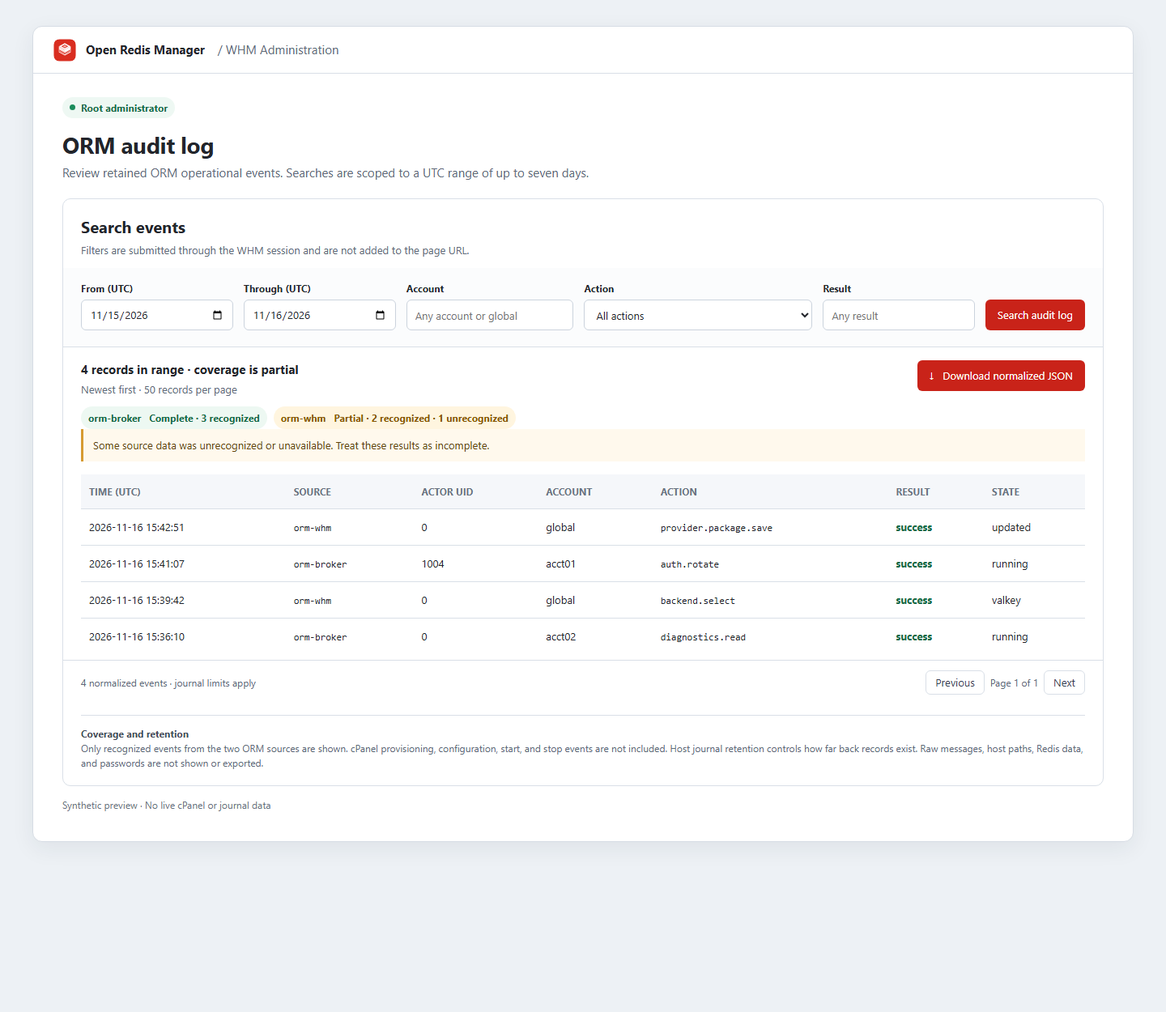
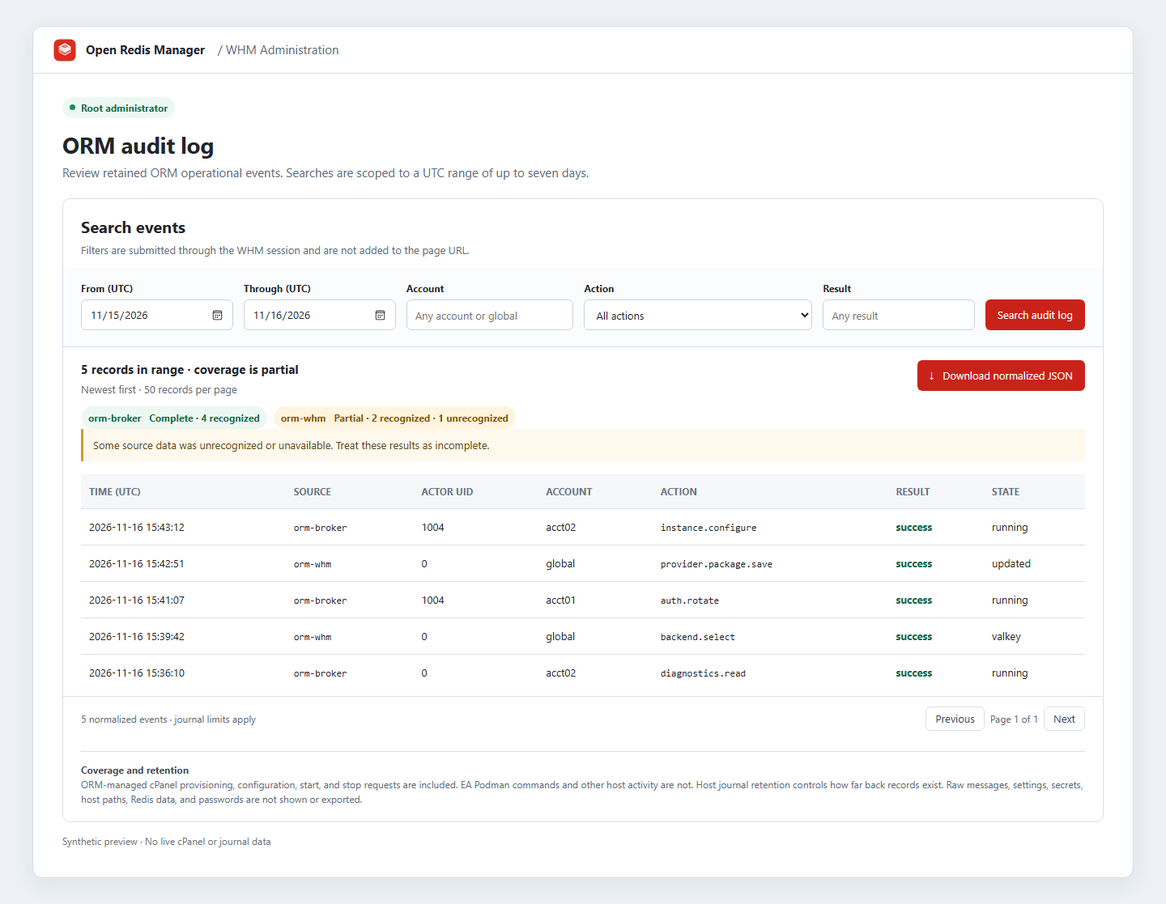
feat(whm): audit cPanel account operations (#206)

diff --git a/screenshots/previews/whm-audit-log.html b/screenshots/previews/whm-audit-log.html
@@ -21,17 +21,18 @@
         <div><label>From (UTC)</label><input type="date" value="2026-11-15"></div>
         <div><label>Through (UTC)</label><input type="date" value="2026-11-16"></div>
         <div><label>Account</label><input value="" placeholder="Any account or global"></div>
-        <div><label>Action</label><select><option>All actions</option><option>diagnostics.read</option></select></div>
+        <div><label>Action</label><select><option>All actions</option><option>instance.provision</option><option>instance.configure</option><option>instance.start</option><option>instance.stop</option><option>diagnostics.read</option></select></div>
         <div><label>Result</label><input value="" placeholder="Any result"></div>
         <button type="button">Search audit log</button>
       </form>
-      <div class="status"><div><div class="count">4 records in range · coverage is partial</div><div class="hint">Newest first · 50 records per page</div></div><button type="button">↓ &nbsp; Download normalized JSON</button></div>
-      <div class="chips"><span class="chip" style="margin-left:22px"><code>orm-broker</code> &nbsp; Complete · 3 recognized</span><span class="chip partial"><code>orm-whm</code> &nbsp; Partial · 2 recognized · 1 unrecognized</span></div>
+      <div class="status"><div><div class="count">5 records in range · coverage is partial</div><div class="hint">Newest first · 50 records per page</div></div><button type="button">↓ &nbsp; Download normalized JSON</button></div>
+      <div class="chips"><span class="chip" style="margin-left:22px"><code>orm-broker</code> &nbsp; Complete · 4 recognized</span><span class="chip partial"><code>orm-whm</code> &nbsp; Partial · 2 recognized · 1 unrecognized</span></div>
       <div class="notice">Some source data was unrecognized or unavailable. Treat these results as incomplete.</div>
       <div class="tablewrap">
         <table>
           <thead><tr><th>TIME (UTC)</th><th>SOURCE</th><th>ACTOR UID</th><th>ACCOUNT</th><th>ACTION</th><th>RESULT</th><th>STATE</th></tr></thead>
           <tbody>
+            <tr><td>2026-11-16 15:43:12</td><td><code>orm-broker</code></td><td>1004</td><td>acct02</td><td><code>instance.configure</code></td><td class="result">success</td><td>running</td></tr>
             <tr><td>2026-11-16 15:42:51</td><td><code>orm-whm</code></td><td>0</td><td>global</td><td><code>provider.package.save</code></td><td class="result">success</td><td>updated</td></tr>
             <tr><td>2026-11-16 15:41:07</td><td><code>orm-broker</code></td><td>1004</td><td>acct01</td><td><code>auth.rotate</code></td><td class="result">success</td><td>running</td></tr>
             <tr><td>2026-11-16 15:39:42</td><td><code>orm-whm</code></td><td>0</td><td>global</td><td><code>backend.select</code></td><td class="result">success</td><td>valkey</td></tr>
@@ -39,8 +40,8 @@
           </tbody>
         </table>
       </div>
-      <div class="foot"><span>4 normalized events · journal limits apply</span><span class="pager"><button type="button">Previous</button><span>Page 1 of 1</span><button type="button">Next</button></span></div>
-      <div class="coverage"><strong>Coverage and retention</strong><br>Only recognized events from the two ORM sources are shown. cPanel provisioning, configuration, start, and stop events are not included. Host journal retention controls how far back records exist. Raw messages, host paths, Redis data, and passwords are not shown or exported.</div>
+      <div class="foot"><span>5 normalized events · journal limits apply</span><span class="pager"><button type="button">Previous</button><span>Page 1 of 1</span><button type="button">Next</button></span></div>
+      <div class="coverage"><strong>Coverage and retention</strong><br>ORM-managed cPanel provisioning, configuration, start, and stop requests are included. EA Podman commands and other host activity are not. Host journal retention controls how far back records exist. Raw messages, settings, secrets, host paths, Redis data, and passwords are not shown or exported.</div>
     </section>
     <div class="caption">Synthetic preview · No live cPanel or journal data</div>
   </main>

diff --git a/tests/whm-audit-log.php b/tests/whm-audit-log.php
@@ -32,6 +32,10 @@ $brokerLines = [
     $journal('orm-broker', 'provider_policy actor_uid=43210 account=acct01 action=policy.violation result=warn state=client_limit_exceeded', $now - 17),
     $journal('orm-broker', 'provider_policy actor_uid=43210 account=acct01 action=policy.violation result=warn state=database_limit_exceeded', $now - 16),
     $journal('orm-broker', 'fleet_operation actor_uid=0 account=acct07 action=recovery.config_rebuild result=success state=stopped', $now - 3),
+    $journal('orm-broker', 'account_operation actor_uid=1000 account=acct01 action=instance.provision result=success state=running', $now - 53),
+    $journal('orm-broker', 'account_operation actor_uid=1000 account=acct01 action=instance.configure result=failure state=running', $now - 52),
+    $journal('orm-broker', 'account_operation actor_uid=1000 account=acct01 action=instance.start result=success state=starting', $now - 51),
+    $journal('orm-broker', 'account_operation actor_uid=1000 account=acct01 action=instance.stop result=success state=stopped', $now - 50),
     $journal('orm-broker', 'ORM raw message password=do-not-export', $now - 10),
     json_encode(['SYSLOG_IDENTIFIER' => 'other-service', 'MESSAGE' => 'fleet_operation actor_uid=0 account=acct01 action=start result=success state=running', '__REALTIME_TIMESTAMP' => (string) ($now * 1_000_000)], JSON_THROW_ON_ERROR),
 ];
@@ -46,7 +50,7 @@ $reader = new WhmAuditLog(static fn (string $identifier): array => [
     'status' => 'ok', 'lines' => $identifier === 'orm-broker' ? $brokerLines : $whmLines,
 ]);
 $result = $reader->read($now - 3600, $now, []);
-$assert($result['success'] && $result['record_count'] === 12, 'Parse known records and omit unknown, malformed-source, and unrelated journal rows.');
+$assert($result['success'] && $result['record_count'] === 16, 'Parse known records and omit unknown, malformed-source, and unrelated journal rows.');
 $assert($result['records'][0]['action'] === 'provider.events.configure' && $result['records'][0]['account'] === 'global'
     && $result['records'][0]['state'] === 'enabled,key_rotated', 'Recognize fixed metadata-only provider event configuration audits.');
 $assert($result['records'][11]['action'] === 'security.thresholds.update' && $result['records'][11]['result'] === 'success',
@@ -58,9 +62,18 @@ $assert($result['records'][5]['action'] === 'policy.violation' && $result['recor
 $assert($result['records'][8]['action'] === 'auth.enable', 'Recognize fixed metadata-only AUTH enable events.');
 $assert($result['records'][9]['action'] === 'diagnostics.info_memory' && $result['records'][9]['actor'] === '0'
     && $result['records'][9]['account'] === 'acct01', 'Expose the exact selected diagnostics command class in audit history.');
+$assert($result['records'][12]['action'] === 'instance.stop' && $result['records'][12]['actor'] === '1000'
+    && $result['records'][12]['account'] === 'acct01' && $result['records'][12]['state'] === 'stopped'
+    && $result['records'][13]['action'] === 'instance.start'
+    && $result['records'][14]['action'] === 'instance.configure' && $result['records'][14]['result'] === 'failure'
+    && $result['records'][15]['action'] === 'instance.provision',
+    'Normalize metadata-only cPanel lifecycle and configuration events from the authenticated account UID.');
 $assert($result['sources'][0]['status'] === 'partial' && $result['sources'][0]['unrecognized_rows'] === 3, 'Mark sources partial when rows cannot be safely recognized.');
 $filtered = $reader->read($now - 3600, $now, ['account' => 'acct01', 'action' => 'auth.rotate', 'result' => 'success']);
 $assert($filtered['record_count'] === 1 && $filtered['records'][0]['actor'] === '1000', 'Filter normalized records by account, action, and result.');
+$accountOperations = $reader->read($now - 3600, $now, ['account' => 'acct01', 'action' => 'instance.configure', 'result' => 'failure']);
+$assert($accountOperations['record_count'] === 1 && $accountOperations['records'][0]['state'] === 'running',
+    'Filter account lifecycle audit events by fixed action and normalized result.');
 $assert(WhmAuditLog::normalizeFilters(['account' => '../root']) === null
     && WhmAuditLog::normalizeFilters(['action' => 'redis-cli']) === null
     && WhmAuditLog::normalizeFilters(['arbitrary' => 'value']) === null, 'Reject unsafe and unknown filters.');

diff --git a/packaging/whm/cgi/addon_open_redis_manager.php b/packaging/whm/cgi/addon_open_redis_manager.php
@@ -1516,7 +1516,7 @@ WHM::header('Open Redis Manager', 0, 0);
         <label for="orm-audit-action">Action</label>
         <select id="orm-audit-action" name="audit_action">
           <option value="">All actions</option>
-          <?php foreach (['start','stop','restart','backup.create','backup.restore','migration.to-valkey','diagnostics.read','diagnostics.ping','diagnostics.info_server','diagnostics.info_memory','diagnostics.info_clients','diagnostics.info_stats','diagnostics.dbsize','recovery.scan','recovery.start','recovery.config_rebuild','auth.rotate','auth.disable','provider.default','provider.package.save','provider.package.remove','provider.reseller.save','provider.reseller.remove','provider.branding.save','backend.select','policy.violation','security.report','security.thresholds.update'] as $action): ?>
+          <?php foreach (['start','stop','restart','instance.provision','instance.configure','instance.start','instance.stop','backup.create','backup.restore','migration.to-valkey','diagnostics.read','diagnostics.ping','diagnostics.info_server','diagnostics.info_memory','diagnostics.info_clients','diagnostics.info_stats','diagnostics.dbsize','recovery.scan','recovery.start','recovery.config_rebuild','auth.rotate','auth.disable','provider.default','provider.package.save','provider.package.remove','provider.reseller.save','provider.reseller.remove','provider.branding.save','backend.select','policy.violation','security.report','security.thresholds.update'] as $action): ?>
             <option value="<?= htmlspecialchars($action, ENT_QUOTES | ENT_SUBSTITUTE, 'UTF-8') ?>"<?= $auditForm['action'] === $action ? ' selected' : '' ?>><?= htmlspecialchars($action, ENT_QUOTES | ENT_SUBSTITUTE, 'UTF-8') ?></option>
           <?php endforeach; ?>
         </select>
@@ -1576,7 +1576,7 @@ WHM::header('Open Redis Manager', 0, 0);
           <?php endif; ?>
         <?php endif; ?>
         <h3>Coverage and retention</h3>
-        <p>Only recognized events retained by <code>orm-broker</code> and <code>orm-whm</code> are shown. cPanel provisioning, configuration, start, and stop requests are not included. Host journal retention and forwarding determine how far back records exist. Raw messages, command output, Redis keys/values, passwords, host paths, and other journal identifiers are never shown or exported.</p>
+        <p>Only recognized events retained by <code>orm-broker</code> and <code>orm-whm</code> are shown. ORM-managed cPanel provisioning, configuration, start, and stop requests are included from the version that introduced account-operation auditing; cPanel EA Podman commands and other host activity are not. Host journal retention and forwarding determine how far back records exist. Raw messages, command output, Redis keys/values, passwords, host paths, and other journal identifiers are never shown or exported.</p>
       <?php endif; ?>
     </section>
   <?php endif; ?>

diff --git a/src/Orm/Security/WhmAuditLog.php b/src/Orm/Security/WhmAuditLog.php
@@ -15,12 +15,13 @@ final class WhmAuditLog
     private const LIMITATIONS = [
         'Only retained records from the two named ORM journald identifiers are read.',
         'Only recognized fixed-format events are returned; unrecognized rows are counted and omitted.',
-        'The viewer does not include cPanel provisioning, configuration, start, or stop operations.',
+        'The viewer does not include cPanel EA Podman commands or all host activity.',
         'Journal retention, forwarding, and persistence are controlled by the host.',
         'Redis keys, values, passwords, raw log messages, command output, and host paths are not exported.',
     ];
     private const ACTIONS = [
         'start', 'stop', 'restart', 'backup.create', 'backup.restore', 'migration.to-valkey',
+        'instance.provision', 'instance.configure', 'instance.start', 'instance.stop',
         'diagnostics.read', 'diagnostics.ping', 'diagnostics.info_server', 'diagnostics.info_memory',
         'diagnostics.info_clients', 'diagnostics.info_stats', 'diagnostics.dbsize',
         'recovery.scan', 'recovery.start', 'recovery.config_rebuild', 'auth.enable', 'auth.rotate', 'auth.disable',
@@ -359,6 +360,8 @@ final class WhmAuditLog
             $patterns = [
                 '/\Afleet_operation actor_uid=' . $actor . ' account=' . $account . ' action=' . $action . ' result=' . $result . ' state=' . $state . '\z/',
                 '/\Aaccount_auth actor_uid=' . $actor . ' account=' . $account . ' action=(?<action>auth\.(?:enable|rotate|disable)) result=' . $result . ' state=' . $state . '\z/',
+                '/\Aaccount_operation actor_uid=' . $actor . ' account=' . $account
+                    . ' action=(?<action>instance\.(?:provision|configure|start|stop)) result=(?<result>success|failure) state=(?<state>running|stopped|starting|stopping|failed|unavailable|not_configured)\z/',
                 '/\Abackup_restore actor_uid=' . $actor . ' account=' . $account
                     . ' backup=(?:snapshot-[0-9]{10}-[a-f0-9]{8}\.rdb|invalid) safety=(?:snapshot-[0-9]{10}-[a-f0-9]{8}\.rdb|none) result=' . $result . ' state=' . $state . '\z/',
                 '/\Aprovider_policy actor_uid=' . $actor . ' account=' . $account . ' action=(?<action>policy\.violation) result=(?<result>report-only|warn|enforce) state=(?<state>(?:package_disabled|memory_limit_exceeded|client_limit_exceeded|reseller_usage_unavailable|reseller_instance_quota_exceeded|reseller_memory_quota_exceeded)(?:,(?:package_disabled|memory_limit_exceeded|client_limit_exceeded|reseller_usage_unavailable|reseller_instance_quota_exceeded|reseller_memory_quota_exceeded))*)\z/',

diff --git a/tests/fleet-ui.php b/tests/fleet-ui.php
@@ -63,6 +63,10 @@ $assert(str_contains($whm, 'Usage from snapshot') && str_contains($whm, "\$entry
     && str_contains($whm, 'memory_used_bytes') && str_contains($whm, 'connected_clients')
     && str_contains($whm, 'No valid metrics snapshot is available.'),
     'show per-account memory and client usage with explicit snapshot freshness and unknown values');
+$assert(str_contains($whm, "'instance.provision','instance.configure','instance.start','instance.stop'")
+    && str_contains($whm, 'ORM-managed cPanel provisioning, configuration, start, and stop requests are included')
+    && str_contains($whm, 'cPanel EA Podman commands'),
+    'filter normalized cPanel operation events and explain the audit coverage boundary');
 $assert(str_contains($whm, "'config_drift' =>") && str_contains($whm, "'config_rebuild'")
     && str_contains($whm, 'Rebuild config') && str_contains($whm, 'ORM will not start the service')
     && str_contains($whm, 'recovery.config_rebuild'),

diff --git a/docs/guides/whm.md b/docs/guides/whm.md
@@ -19,7 +19,7 @@ EA Podman Redis/Valkey coverage is collected separately by a root-owned timer ev
 - **Security and abuse review:** root WHM can generate a report-only review at most once per minute. It uses fresh fleet memory/client/hit-ratio aggregates, verified per-account eviction and operation counter deltas, an optional backend authentication-failure counter, and the last 24 hours of normalized ORM AUTH management events. Each finding shows its UTC evidence window, sample time where available, and a review recommendation. Root can set separate report-only thresholds for eviction deltas, average operations per second, and authentication-failure deltas. Thresholds default to disabled and only change report severity; automated enforcement is not implemented. Counter evidence shows actual sample intervals of up to 26 hours. Missing fields/baselines, resets, and partial sources stay unknown. EA Podman currently contributes a separate aggregate coverage finding from a fresh scheduled snapshot; no Podman counter-delta thresholds are evaluated. Authentication counters are anonymous aggregates; they do not identify clients or distinguish mistakes from attacks. The report does not remediate services, inspect passwords, or evaluate credential strength/reuse. See the [security report threshold guide](security-report-thresholds.md).
 - **Branding:** preview the account-facing product name, logo, support URL and colors.
 - **Updates:** show the source version and release information; preserve existing instances and data.
-- **Audit:** root WHM can search retained ORM audit events by UTC date range (up to seven days), account, action, and result, and download normalized JSON. Actor UID, account, fixed action/result/state, timestamp, and the ORM source identifier are shown. Source coverage reports unavailable, timed-out, truncated, or unrecognized rows. It does not show cPanel provisioning, configuration, start, or stop events; host journal retention controls how far back records exist.
+- **Audit:** root WHM can search retained ORM audit events by UTC date range (up to seven days), account, action, and result, and download normalized JSON. Actor UID, account, fixed action/result/state, timestamp, and the ORM source identifier are shown. Source coverage reports unavailable, timed-out, truncated, or unrecognized rows. ORM-managed cPanel account provisioning, configuration, start, and stop requests are included from the emitting version onward; EA Podman commands and other host activity are not. Host journal retention controls how far back records exist.
 - **Provider events:** root WHM can configure an optional signed HTTPS event destination, enable or disable delivery, rotate its secret, and inspect bounded queue status. Delivery is disabled by default and the key is never shown again after generation. Receivers must validate HMAC, timestamps, and duplicate IDs. See the [provider event guide](provider-events.md).
 
 ## Authorization
@@ -27,4 +27,4 @@ EA Podman Redis/Valkey coverage is collected separately by a root-owned timer ev
 The fleet view is root-only. The WHM application asks the local broker for its inventory; the broker checks the kernel-derived peer UID and accepts the fleet operation only from UID 0. It lists only ORM metadata backed by a matching cPanel account record and valid local account identity. Names and state are escaped before rendering; paths, configuration, credentials, and Redis data are omitted. Pagination keeps broker replies within the protocol size limit. Snapshot entries contain only validated IDs, timestamps, and sizes. Search, state filtering, and state counts apply to the displayed page.
 
 Fleet controls, diagnostics, recovery, backup batches, and migration operations are root-only and use POST on a WHM `cpsess` route. The broker rejects non-root peers, malformed account names, unknown actions, untrusted account records, and invalid instance manifests before invoking a manager method. Batch creation/restoration is limited to two accounts from the visible page; the broker caps work, applies global and per-account rate limits, isolates failures, and returns strict per-account results. Metrics are read from validated root-owned snapshot files, and service state uses fixed argv systemd requests. Snapshot and migration operations cannot target arbitrary paths; restore requires a retained account-owned snapshot, performs the safety-snapshot and rollback flow, and can interrupt a service or discard newer writes. The [security model](../security-model.md) describes the authorization and isolation boundaries.
-The audit view reads only the fixed `orm-broker` and `orm-whm` identifiers from `authpriv`, and returns recognized event fields rather than raw journal messages. It intentionally cannot establish complete host activity: cPanel instance provisioning, configuration, start, and stop events are not currently recorded in these sources. No matching retained rows may mean that the journal has expired or forwarded the events elsewhere. Exports are private, no-store JSON and include source coverage and limitations.
+The audit view reads only the fixed `orm-broker` and `orm-whm` identifiers from `authpriv`, and returns recognized event fields rather than raw journal messages. Account operation events use the kernel peer UID and resolved account; only fixed action names, success/failure, and normalized service state are recorded. Logging is best-effort. The view intentionally cannot establish complete host activity: EA Podman commands and unrelated system actions are not recorded. No matching retained rows may mean that the journal expired, forwarded the events elsewhere, or predates the version that emits a particular event. Exports are private, no-store JSON and include source coverage and limitations.

diff --git a/docs/features/catalog.md b/docs/features/catalog.md
@@ -40,7 +40,7 @@ This catalog records the public product behavior observed on the reference site 
 | Authentication protection | Rate-limit repeated authentication failures, audit lockouts without logging secrets, and detect weak or reused credentials without exposing values. | The report measures anonymous backend auth-failure counter deltas only when the backend exposes the INFO field; unsupported versions and incomplete windows remain unknown. It does not identify clients, create lockouts, or evaluate credential strength/reuse. Broker operations use Unix-socket peer credentials and fixed request rate limits. Redis AUTH is optional and is not a substitute for account isolation. |
 | Branding | Configure provider product name, logo, support link, four labelled theme colors, brand-inspired palettes, footer visibility and a live cPanel preview. | Root WHM stores validated provider branding in the root-owned v4 policy file. The account-scoped broker exposes only display data to cPanel. The four palette roles are primary action, link, panel background, and text; the project-authored ORM, UnderHost-inspired, Redis-inspired, and Valkey-inspired palettes change colors only. |
 | Updates | Verify release metadata and expose an administrator-approved update path that preserves existing accounts. | Root WHM verifies a manually staged, locally signed release against the installed v3 manifest, displays signature, digest and per-file actions, and requires a fresh conflict-free preview plus explicit confirmation. A fixed worker applies the bound version and artifact asynchronously through the transactional updater and exposes bounded status and recovery states. Releases are not fetched automatically; existing v1/v2 installs need exact-match manifest adoption, and the workflow still needs live cPanel validation. See the [update lifecycle guide](../guides/update-lifecycle.md). |
-| Audit | Record privileged changes and operation results without secrets; support filtering and export. | Root WHM can search retained, recognized `orm-broker` and `orm-whm` authpriv events by UTC range (up to seven days), account, fixed action, and result, then export normalized JSON. Missing, truncated, or unrecognized journal rows are shown as incomplete coverage. cPanel provisioning, configuration, start, and stop events are not included, and host retention controls availability. |
+| Audit | Record privileged changes and operation results without secrets; support filtering and export. | Root WHM can search retained, recognized `orm-broker` and `orm-whm` authpriv events by UTC range (up to seven days), account, fixed action, and result, then export normalized JSON. Missing, truncated, or unrecognized journal rows are shown as incomplete coverage. ORM-managed cPanel provision/configure/start/stop requests use the broker peer UID and a fixed metadata-only schema. Events are best-effort and begin with versions that emit the schema; cPanel EA Podman commands and unrelated host activity remain outside the ORM audit stream. Host retention controls availability. |
 | Backend migration | Snapshot, switch one account, verify health and connectivity, then roll back on failure. Require explicit confirmation and show downtime/data semantics. | Root-only WHM migration is wired for a running ORM-managed Redis 6.2–7.2 instance to Valkey 7.2 or newer. It requires an explicit acknowledgement that application writers have already been stopped or paused, briefly pauses Redis writes, saves and validates an RDB snapshot, switches the backend, checks service health and per-database key/expiry counts, and attempts automatic rollback on failure. It rejects unsupported versions and keeps a safety snapshot. Exact key values are not compared; maintain the application write pause through verification and resume it only after success. Disposable cPanel migration testing remains an open release gate. |
 | Update lifecycle | Show signed release state in WHM, preserve existing account configuration and data, and provide an explicit post-update status and recovery path. | WHM now provides signed release preview, explicit apply confirmation, asynchronous transaction jobs, and bounded status/recovery reporting. The worker refuses unsupported file actions and binds the confirmed version and digest. Releases must be staged and signed out of band; the older identity-v1 bridge remains a separate compatibility path, and live cPanel install/update validation is open. |
 

diff --git a/screenshots/README.md b/screenshots/README.md
@@ -34,7 +34,7 @@ Images below include local previews, prototype captures, and explicitly labeled 
 | [WHM security report](whm-security-report.png) | Report-only resource findings, configurable advisory thresholds, measured counter-rate windows, partial evidence and explicit unknown authentication signals | 1440 × 1660 static sample-data preview; [HTML source](previews/whm-security-report.html) |
 | [WHM package and reseller policy](whm-package-policy.png) | Root-only mode and exposure defaults, package ceilings, reseller usage, and quotas | Static preview; [HTML source](previews/whm-package-policy.html) |
 | [WHM provider branding](whm-provider-branding.png) | Provider identity controls and a synthetic live cPanel preview | Static preview; [HTML source](previews/whm-provider-branding.html) |
-| [WHM audit log](whm-audit-log.png) | Root-only UTC filters, source coverage status, normalized events, and JSON export | Synthetic sample data; [HTML source](previews/whm-audit-log.html) |
+| [WHM audit log](whm-audit-log.png) | Root-only UTC filters, cPanel lifecycle/configuration events, source coverage, normalized records, and JSON export | Synthetic sample data; [HTML source](previews/whm-audit-log.html) |
 | [WHM signed update preview and job status](whm-update-preview.png) | Root-only signed release preview, explicit asynchronous apply confirmation, queued job status and status lookup | Synthetic release and job values; [HTML source](previews/whm-update-preview.html) |
 
 The dashboard and WHM overview/accounts/security images are nonfunctional prototype screens. The cPanel setup image is a static preview rendered from [its HTML fixture](previews/cpanel-presets.html), with synthetic data. The cPanel configuration image is a static preview rendered from [its HTML fixture](previews/cpanel-configuration.html), with synthetic settings. The cPanel monitoring and hourly history images are static previews rendered from [their HTML fixture](previews/cpanel-monitoring.html); the stale-state design is in a [synthetic HTML preview](previews/cpanel-monitoring-stale.html), with image capture pending. The cPanel backup and restore screenshot is rendered from its [synthetic HTML preview](previews/cpanel-backups-restore.html). The connection-details image is a static preview rendered from [its HTML fixture](previews/connection-details.html). The WHM account-action and snapshot design is rendered from its [synthetic HTML preview](previews/whm-fleet.html). These previews are not connected to cPanel or Redis/Valkey.

diff --git a/docs/guides/audit-log.md b/docs/guides/audit-log.md
@@ -12,6 +12,6 @@ The reader invokes the fixed `/usr/bin/journalctl` program with an argument vect
 
 Each source is identified as complete, partial, or unavailable. Timeouts, truncated output, and unrecognized rows are visible. An empty result does not prove that no operation occurred: the host may have expired, forwarded, or disabled persistent journal records.
 
-The current sources cover privileged WHM fleet controls, diagnostics, recovery, backup/restore, migration, AUTH changes, provider policy decisions, provider policy changes, and backend selection. cPanel provisioning, configuration, start, and stop activity is not currently included. The screen is therefore an ORM operations view, not a complete host audit trail. Follow the server's journal retention, access, and forwarding policy for authoritative retention.
+The current sources cover privileged WHM fleet controls, diagnostics, recovery, backup/restore, migration, AUTH changes, provider policy decisions, provider policy changes, backend selection, and ORM-managed cPanel account provisioning, configuration, start, and stop requests. Account-operation events use the broker's kernel-derived peer UID and the resolved account identity. They contain only a fixed action, success/failure, and normalized service state; request settings, preset values, secrets, backup IDs, and raw errors are excluded. Logging is best-effort, and the WHM view does not report whether syslog accepted a particular cPanel event. Events are available only from versions that emit this schema onward. cPanel EA Podman commands and other host activity are outside this ORM event stream. The screen is therefore an ORM operations view, not a complete host audit trail. Follow the server's journal retention, access, and forwarding policy for authoritative retention.
 
 JSON exports include a schema version, UTC range, normalized filters and records, per-source coverage, truncation flags, and limitations. The download response is marked private and no-store. Treat exports as administrative data because account identifiers and actor UIDs are present.

diff --git a/docs/security-model.md b/docs/security-model.md
@@ -44,4 +44,4 @@ Mutations require POST requests on a ten-digit `cpsess`-tokenized route, which c
 
 The broker uses Linux's `SO_PEERCRED` Unix-socket option to read the peer credentials ([`unix(7)`](https://man7.org/linux/man-pages/man7/unix.7.html)). Its systemd unit uses a private runtime directory and filesystem restrictions ([`systemd.exec`](https://www.freedesktop.org/software/systemd/man/latest/systemd.exec.html)).
 
-The root-only audit view accepts POSTed filters on the guarded WHM session route. It queries `/usr/bin/journalctl` through a fixed argument vector for the two ORM authpriv identifiers, with a seven-day range cap, a three-second timeout and a one-megabyte output cap per source. It returns recognized event fields only, and JSON exports cannot carry raw journal messages or extra row fields. Unavailable, truncated, or unrecognized source rows mark the view incomplete. The view does not cover cPanel provisioning, configuration, start, or stop activity, and host journal retention/forwarding determines record availability; it is not a complete host audit trail.
+The root-only audit view accepts POSTed filters on the guarded WHM session route. It queries `/usr/bin/journalctl` through a fixed argument vector for the two ORM authpriv identifiers, with a seven-day range cap, a three-second timeout and a one-megabyte output cap per source. It returns recognized event fields only, and JSON exports cannot carry raw journal messages or extra row fields. Unavailable, truncated, or unrecognized source rows mark the view incomplete. The broker records ORM-managed cPanel provisioning, configuration, start, and stop requests using the kernel-derived peer UID, resolved account name, fixed action, success/failure, and allowlisted service state. It excludes request data, settings, secrets, and raw errors; logging is best-effort. EA Podman commands and unrelated host activity remain outside this event stream. Host journal retention/forwarding determines record availability, so it is not a complete host audit trail.

diff --git a/docs/features/screenshot-map.md b/docs/features/screenshot-map.md
@@ -27,7 +27,7 @@ The public gallery has three cPanel and nine WHM screenshots. Its cards open an 
 | [cPanel connection helpers](../../screenshots/cpanel-connection-details.png) | Synthetic account page with seven socket-based client and application settings, per-example copy controls, and security/runtime notes. |
 | [ORM health guidance](../../screenshots/cpanel-health-guidance.png) | Synthetic account-scoped 25/100 advisory score with 4/4 evidence coverage and actionable memory/client/hit-ratio findings; unknown checks are not passes. |
 | [ORM diagnostics preview](../../screenshots/orm-diagnostics.png) | Synthetic cPanel support panel with a credential-redacted JSON preview and explicit download action. |
-| [WHM audit log](../../screenshots/whm-audit-log.png) | Root-only UTC filters, source coverage, normalized events, and JSON export using synthetic sample data. |
+| [WHM audit log](../../screenshots/whm-audit-log.png) | Root-only UTC filters, cPanel lifecycle/configuration events, source coverage, normalized records, and JSON export using synthetic sample data. |
 | [WHM security report](../../screenshots/whm-security-report.png) | Synthetic report-only findings with configurable threshold controls, counter-rate windows, partial coverage, and explicitly unknown authentication signals. The preview crosses the sample thresholds to show advisory warnings only. |
 | [cPanel Jupiter v4 icon preview](../../screenshots/previews/cpanel-icons-v4-preview.png) | Local preview of the exact 48×48 PNGs registered directly for the group and launcher, using the approved brand mark. This is an asset preview, not a live authenticated cPanel capture. |
 | [cPanel Jupiter generated-sprite preview](../../screenshots/previews/cpanel-jupiter-live-sprite-preview.png) | Local render of the group and launcher entries from the test server's generated Jupiter sprite after its CSS cache key was synchronized. The artwork is sourced from the live sprite; this is not a browser screenshot. |

diff --git a/docs/release-notes.md b/docs/release-notes.md
@@ -19,6 +19,8 @@ These notes distinguish repository implementation from deployment readiness. A f
 
 - cPanel setup preflight now reports whether PhpRedis is loaded in the PHP runtime serving the ORM page, with a version when available. It warns that domain PHP handlers may differ, suggests enabling the extension only for PHP applications that need it, and does not claim application connectivity. See [issue #203](https://github.com/aivanov2-godaddy/open-redis-manager/issues/203) and the refreshed [application preflight screenshot](../screenshots/cpanel-application-discovery.png).
 
+- WHM audit history now includes metadata-only ORM-managed cPanel provisioning, configuration, start, and stop requests. The event records the broker peer UID, resolved account, fixed action, success/failure, and normalized state; it excludes submitted settings, secrets, and raw errors. EA Podman commands remain outside this audit stream. See [issue #205](https://github.com/aivanov2-godaddy/open-redis-manager/issues/205) and the refreshed [audit log screenshot](../screenshots/whm-audit-log.png).
+
 - Standalone sample-data PHP prototype for reviewing layout and workflows; it does not connect to Redis.
 - Application guides and copyable connection examples; ORM does not edit application files or establish client compatibility for a specific host.
 - Broker-backed Redis/Valkey per-account provisioning, status, bounded configuration, lifecycle controls, metrics, and hourly history.
